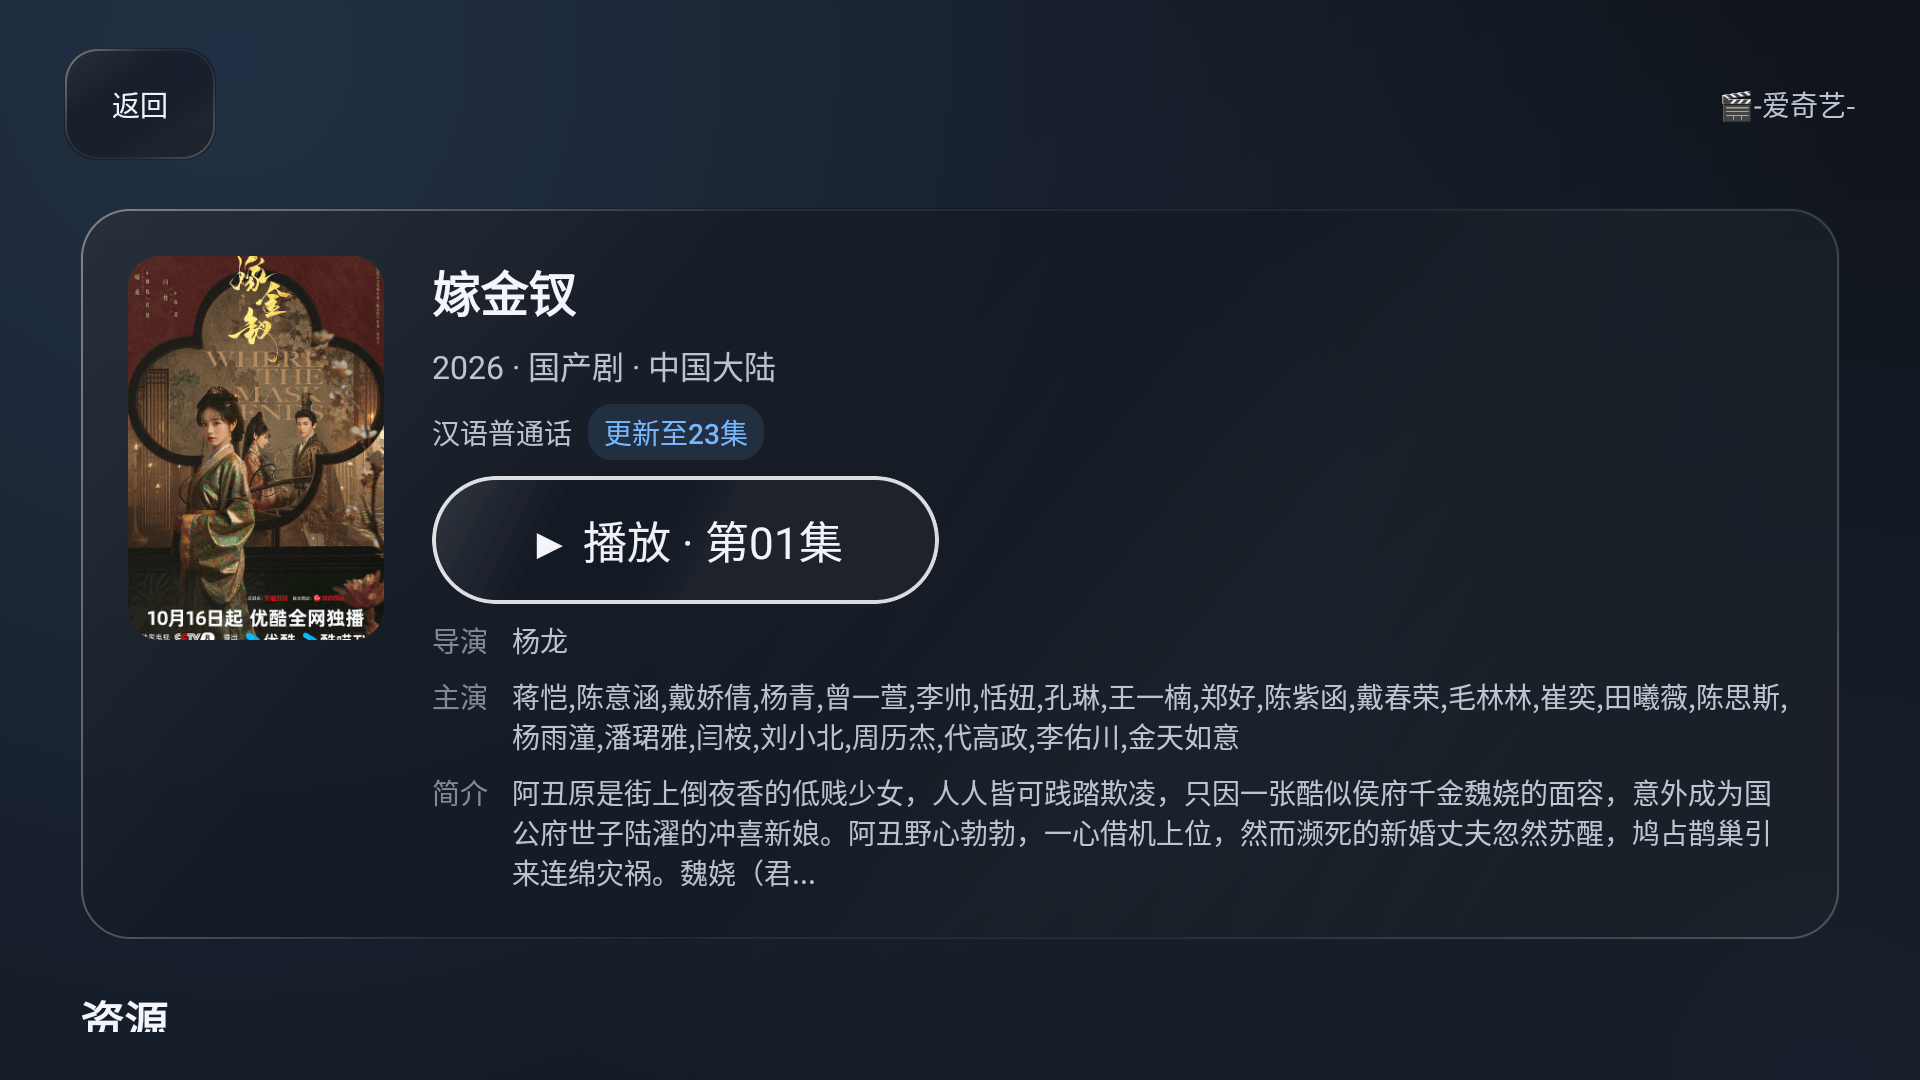
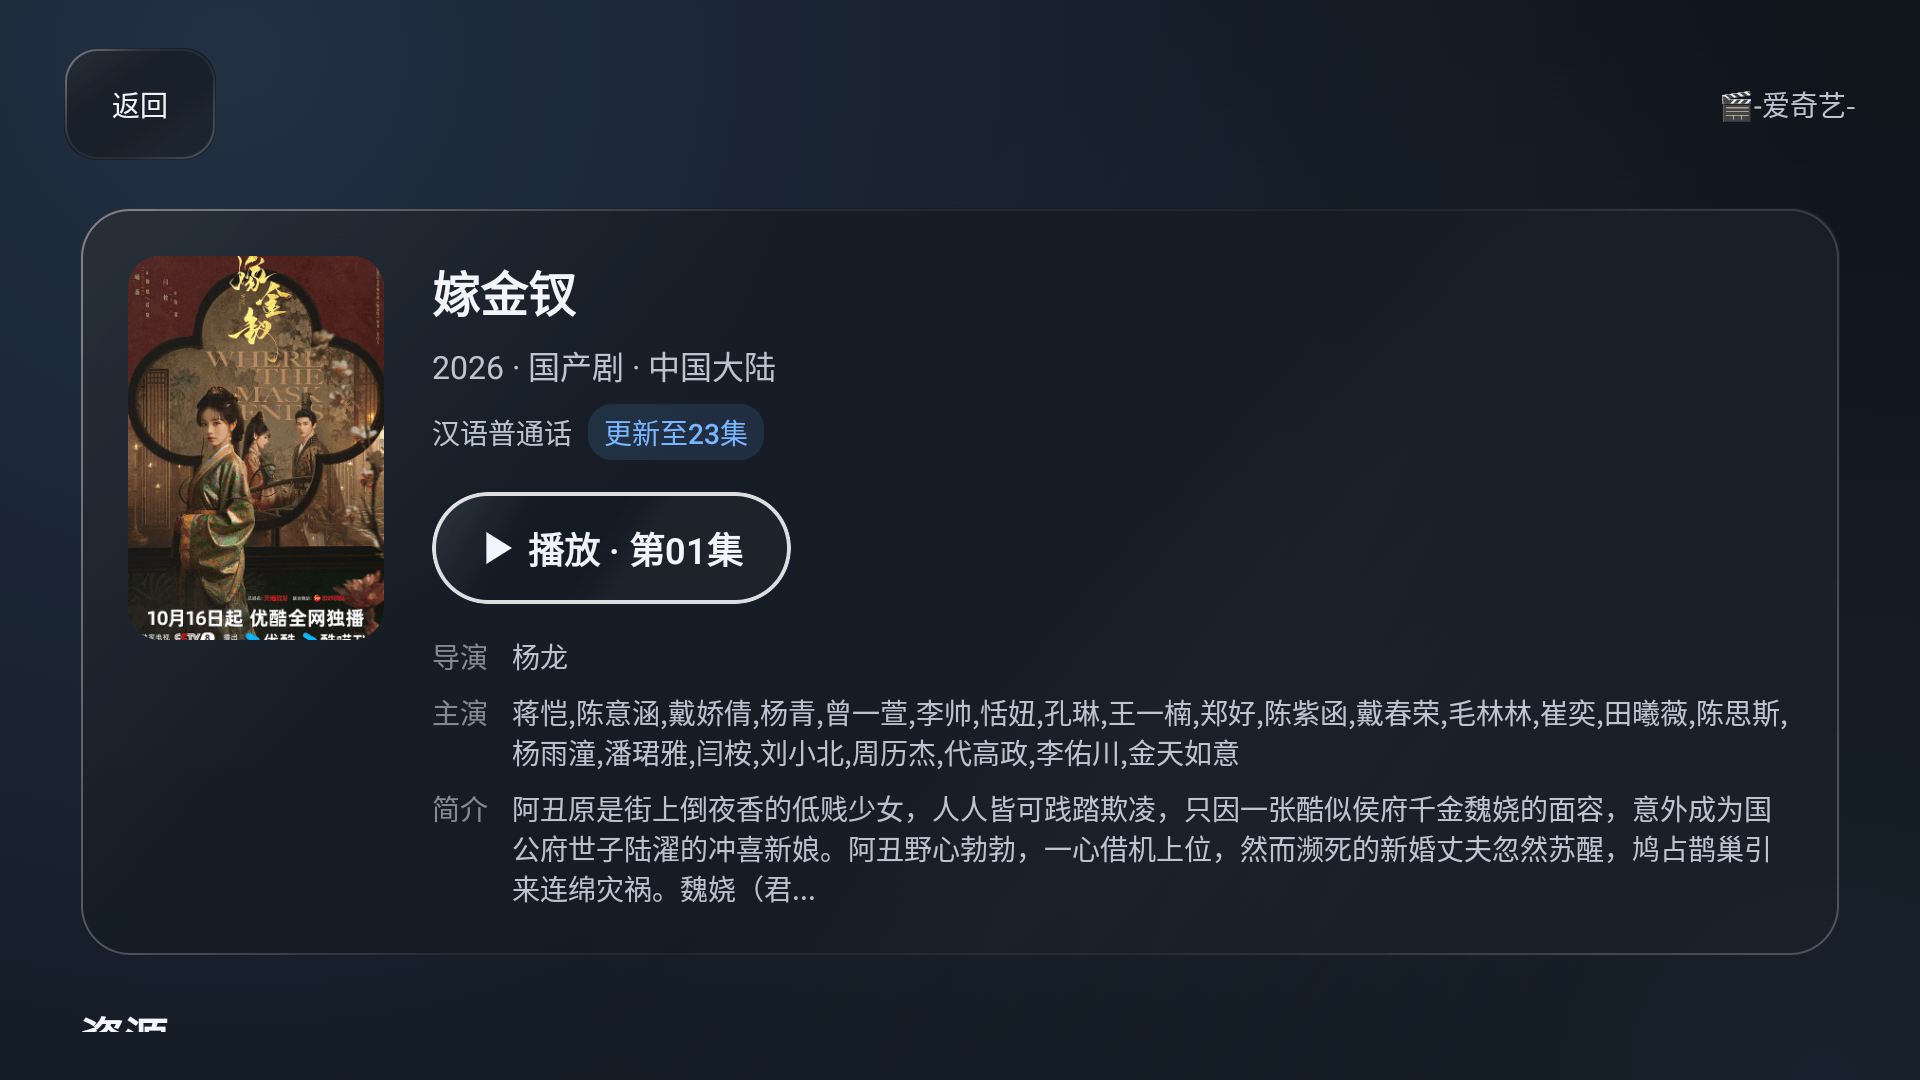
Refine detail play buttons and show five TV result cards per row
Reduce hero play button size, center labels and icons, and add vertical
breathing room on macOS and TV. Use a separate TV play icon and trim font
padding. Fill the result grid with five columns and smaller page margins,
retaining room for focus scaling.

Update the UI contract and TinyPNG-compressed README images. Verified both
builds, zero Android lint issues, five visible cards and exact vertical
centering of the TV hero label in the emulator.

diff --git a/AndroidTV/src/main/java/art/anjing/tigertv/ui/results/ResultsScreen.kt b/AndroidTV/src/main/java/art/anjing/tigertv/ui/results/ResultsScreen.kt
@@ -7,8 +7,6 @@ import androidx.compose.foundation.border
 import androidx.compose.foundation.interaction.MutableInteractionSource
 import androidx.compose.foundation.interaction.collectIsFocusedAsState
 import androidx.compose.foundation.shape.RoundedCornerShape
-import androidx.compose.foundation.layout.fillMaxHeight
-import androidx.compose.foundation.layout.heightIn
 import androidx.compose.ui.draw.clip
 import androidx.tv.material3.Border
 import art.anjing.tigertv.ui.components.tvGlass
@@ -16,7 +14,6 @@ import androidx.compose.foundation.background
 import androidx.compose.foundation.layout.Arrangement
 import androidx.compose.foundation.layout.Box
 import androidx.compose.foundation.layout.Column
-import androidx.compose.foundation.layout.BoxWithConstraints
 import androidx.compose.foundation.layout.PaddingValues
 import androidx.compose.foundation.layout.Row
 import androidx.compose.foundation.layout.Spacer
@@ -24,8 +21,6 @@ import androidx.compose.foundation.layout.aspectRatio
 import androidx.compose.foundation.layout.fillMaxSize
 import androidx.compose.foundation.layout.fillMaxWidth
 import androidx.compose.foundation.layout.height
-import androidx.compose.foundation.layout.size
-import androidx.compose.foundation.layout.width
 import androidx.compose.foundation.layout.padding
 import androidx.compose.foundation.lazy.grid.GridCells
 import androidx.compose.foundation.lazy.grid.LazyVerticalGrid
@@ -46,9 +41,7 @@ import androidx.compose.ui.layout.ContentScale
 import androidx.compose.ui.res.stringResource
 import androidx.compose.ui.text.font.FontWeight
 import androidx.compose.ui.text.style.TextOverflow
-import androidx.compose.ui.unit.Dp
 import androidx.compose.ui.unit.dp
-import kotlin.math.floor
 import androidx.tv.material3.Card
 import androidx.tv.material3.CardDefaults
 import androidx.tv.material3.ExperimentalTvMaterial3Api
@@ -78,7 +71,7 @@ fun ResultsScreen(
         Column(
             modifier = Modifier
                 .fillMaxSize()
-                .padding(32.dp)
+                .padding(horizontal = 24.dp, vertical = 32.dp)
         ) {
             Row(
                 modifier = Modifier.fillMaxWidth(),
@@ -151,27 +144,21 @@ private fun ResultsGrid(
         }
     }
 
-    BoxWithConstraints(modifier = modifier.fillMaxSize()) {
-        val columns = derivedColumnCount(maxWidth, maxHeight)
-        val cellWidth = (maxWidth - GridContentPadding * 2 - ColumnSpacing * (columns - 1)) / columns
-        val cardWidth = minOf(cellWidth, ((maxHeight - GridVerticalPadding * 2 - CardCaptionHeight) * CoverAspectRatio).coerceIn(140.dp, 220.dp))
-        val gridWidth = cardWidth * columns + ColumnSpacing * (columns - 1) + GridContentPadding * 2
-        LazyVerticalGrid(
-            columns = GridCells.Fixed(columns),
-            modifier = Modifier.width(gridWidth).fillMaxHeight().align(Alignment.TopCenter),
-            contentPadding = PaddingValues(horizontal = GridContentPadding, vertical = GridVerticalPadding),
-            horizontalArrangement = Arrangement.spacedBy(ColumnSpacing),
-            verticalArrangement = Arrangement.spacedBy(RowSpacing)
-        ) {
-            itemsIndexed(works, key = { _, work -> work.id }) { _, work ->
-                WorkCard(
-                    work = work,
-                    coverFallbacks = coverFallbacks,
-                    onLoadCoverFallback = onLoadCoverFallback,
-                    onSelectResult = onSelectResult,
-                    modifier = if (work.id == focusWorkId) Modifier.focusRequester(cardFocusRequester) else Modifier
-                )
-            }
+    LazyVerticalGrid(
+        columns = GridCells.Fixed(5),
+        modifier = modifier.fillMaxSize(),
+        contentPadding = PaddingValues(horizontal = GridContentPadding, vertical = GridVerticalPadding),
+        horizontalArrangement = Arrangement.spacedBy(ColumnSpacing),
+        verticalArrangement = Arrangement.spacedBy(RowSpacing)
+    ) {
+        itemsIndexed(works, key = { _, work -> work.id }) { _, work ->
+            WorkCard(
+                work = work,
+                coverFallbacks = coverFallbacks,
+                onLoadCoverFallback = onLoadCoverFallback,
+                onSelectResult = onSelectResult,
+                modifier = if (work.id == focusWorkId) Modifier.focusRequester(cardFocusRequester) else Modifier
+            )
         }
     }
 }
@@ -234,15 +221,9 @@ private fun WorkCard(
 
 private val GridContentPadding = 8.dp
 private val GridVerticalPadding = 16.dp
-private val CardCaptionHeight = 122.dp
 private val ColumnSpacing = 16.dp
 private val RowSpacing = 16.dp
 private const val CoverAspectRatio = 2f / 3f
-
-private fun derivedColumnCount(availableWidth: Dp, availableHeight: Dp): Int {
-    val minWidth = if (availableHeight < 360.dp) 180.dp else 200.dp
-    return floor((availableWidth + ColumnSpacing) / (minWidth + ColumnSpacing)).toInt().coerceIn(2, 4)
-}
 
 /**
  * 封面图：加载中显示占位背景，失败或无 URL 时回落到标题首字占位图。

diff --git a/AndroidTV/src/main/java/art/anjing/tigertv/ui/episodes/EpisodesScreen.kt b/AndroidTV/src/main/java/art/anjing/tigertv/ui/episodes/EpisodesScreen.kt
@@ -2,6 +2,7 @@ package art.anjing.tigertv.ui.episodes
 
 import androidx.activity.compose.BackHandler
 
+import androidx.compose.foundation.Canvas
 import androidx.compose.foundation.background
 import androidx.compose.foundation.layout.*
 import androidx.compose.foundation.lazy.rememberLazyListState
@@ -29,8 +30,11 @@ import androidx.compose.foundation.lazy.grid.rememberLazyGridState
 import kotlinx.coroutines.launch
 import androidx.compose.ui.graphics.Brush
 import androidx.compose.ui.graphics.Color
+import androidx.compose.ui.graphics.Path
 import androidx.compose.ui.layout.ContentScale
 import androidx.compose.ui.res.stringResource
+import androidx.compose.ui.text.PlatformTextStyle
+import androidx.compose.ui.text.style.LineHeightStyle
 import androidx.compose.ui.text.font.FontWeight
 import androidx.compose.ui.text.style.TextOverflow
 import androidx.compose.ui.text.style.TextAlign
@@ -215,12 +219,25 @@ private fun DetailOverview(result: SearchResult, detail: FetchResponse?, fallbac
             }
             episodes.getOrNull(resumeIndex)?.let { episode ->
                 GlassButton(onClick = { onPlay(resumeIndex) },
-                    radius = 32.dp, height = 64.dp,
-                    modifier = Modifier.focusRequester(playFocus).onDpad(Key.DirectionDown, onPlayDown)
+                    radius = 28.dp, height = UiMetrics.controlHeight,
+                    contentPadding = PaddingValues(horizontal = UiSpacing.lg, vertical = 0.dp),
+                    modifier = Modifier.padding(vertical = UiSpacing.sm).focusRequester(playFocus).onDpad(Key.DirectionDown, onPlayDown)
                         .onFocusChanged { if (it.isFocused) onPlayFocus() }) {
-                    Box(Modifier.padding(horizontal = UiSpacing.lg, vertical = UiSpacing.sm), contentAlignment = Alignment.Center) {
-                        Text("▶ 播放 · ${episode.name}", style = MaterialTheme.typography.titleLarge)
+                    val iconColor = LocalContentColor.current
+                    Canvas(Modifier.size(16.dp)) {
+                        drawPath(Path().apply {
+                            moveTo(size.width * 0.2f, 0f)
+                            lineTo(size.width, size.height * 0.5f)
+                            lineTo(size.width * 0.2f, size.height)
+                            close()
+                        }, iconColor)
                     }
+                    Spacer(Modifier.width(UiSpacing.sm))
+                    Text("播放 · ${episode.name}", maxLines = 1, overflow = TextOverflow.Ellipsis,
+                        style = MaterialTheme.typography.titleMedium.copy(
+                            platformStyle = PlatformTextStyle(includeFontPadding = false),
+                            lineHeightStyle = LineHeightStyle(LineHeightStyle.Alignment.Center, LineHeightStyle.Trim.Both)
+                        ))
                 }
             }
             if (!detail?.vodDirector.isNullOrBlank()) Credit("导演", detail.vodDirector)

diff --git a/macOS/App/ResultsLayout.swift b/macOS/App/ResultsLayout.swift
@@ -198,12 +198,16 @@ struct ResultsLayout: View {
                 if let episode = resumeEpisode ?? episodes.first {
                     Button { onSelectEpisode(episode) } label: {
                         Label("播放 · \(episode.name)", systemImage: "play.fill")
-                            .font(.title3.weight(.semibold)).padding(.horizontal, AppSpacing.md).padding(.vertical, AppSpacing.sm + AppSpacing.xs)
+                            .font(.headline.weight(.semibold))
+                            .frame(height: AppMetrics.controlHeight - AppSpacing.sm, alignment: .center)
+                            .padding(.horizontal, AppSpacing.sm)
                     }
                     .buttonStyle(.glassProminent)
+                    .controlSize(.regular)
                     .buttonBorderShape(.capsule)
                     .tint(Color.accentColor)
                     .foregroundStyle(.white)
+                    .padding(.vertical, AppSpacing.xs)
                 }
                 if let director = detail?.vodDirector, !director.isEmpty {
                     detailCredit("导演", value: director)

diff --git a/AGENTS.md b/AGENTS.md
@@ -77,7 +77,7 @@ Default detail source priority: this work's last played site → global most rec
 
 macOS: SwiftUI + AVPlayer; no subprocess; App Sandbox disabled; ATS arbitrary loads permitted for HTTP sources. Fullscreen hides search/episode controls. Close player on navigation and preserve cancellable request ownership.
 
-Android: minSdk 34. Sony BRAVIA Android 14 TVs can use 32-bit `armeabi-v7a`; universal APK MUST include both v7a and arm64. Media3 1.11.1. All controls D-pad focusable, large targets, dark theme, high contrast focus. `requestFocusSafely` retries 8×30ms; lazy grids may not attach after one frame. Detail controls and episodes share one scroll container so short viewports retain access. Construct dependencies with applicationContext. Resume playback when mediaItemCount > 0. Hide transport controls under loading/error overlays; retry/error actions must receive focus. Results grid column count accounts for poster height and text area; grid cells must match card width (16dp real gaps). Shared glass buttons keep their shape, 56dp height and scale across focus/pressed/disabled states; cards alone scale to 1.04 on focus.
+Android: minSdk 34. Sony BRAVIA Android 14 TVs can use 32-bit `armeabi-v7a`; universal APK MUST include both v7a and arm64. Media3 1.11.1. All controls D-pad focusable, large targets, dark theme, high contrast focus. `requestFocusSafely` retries 8×30ms; lazy grids may not attach after one frame. Detail controls and episodes share one scroll container so short viewports retain access. Construct dependencies with applicationContext. Resume playback when mediaItemCount > 0. Hide transport controls under loading/error overlays; retry/error actions must receive focus. Results use five columns with 24dp horizontal page padding and 16dp gaps; retain padding for 1.04 focus scaling. Shared glass buttons keep their shape, 56dp height and scale across focus/pressed/disabled states; cards alone scale to 1.04 on focus.
 
 ## Signing and release
 
